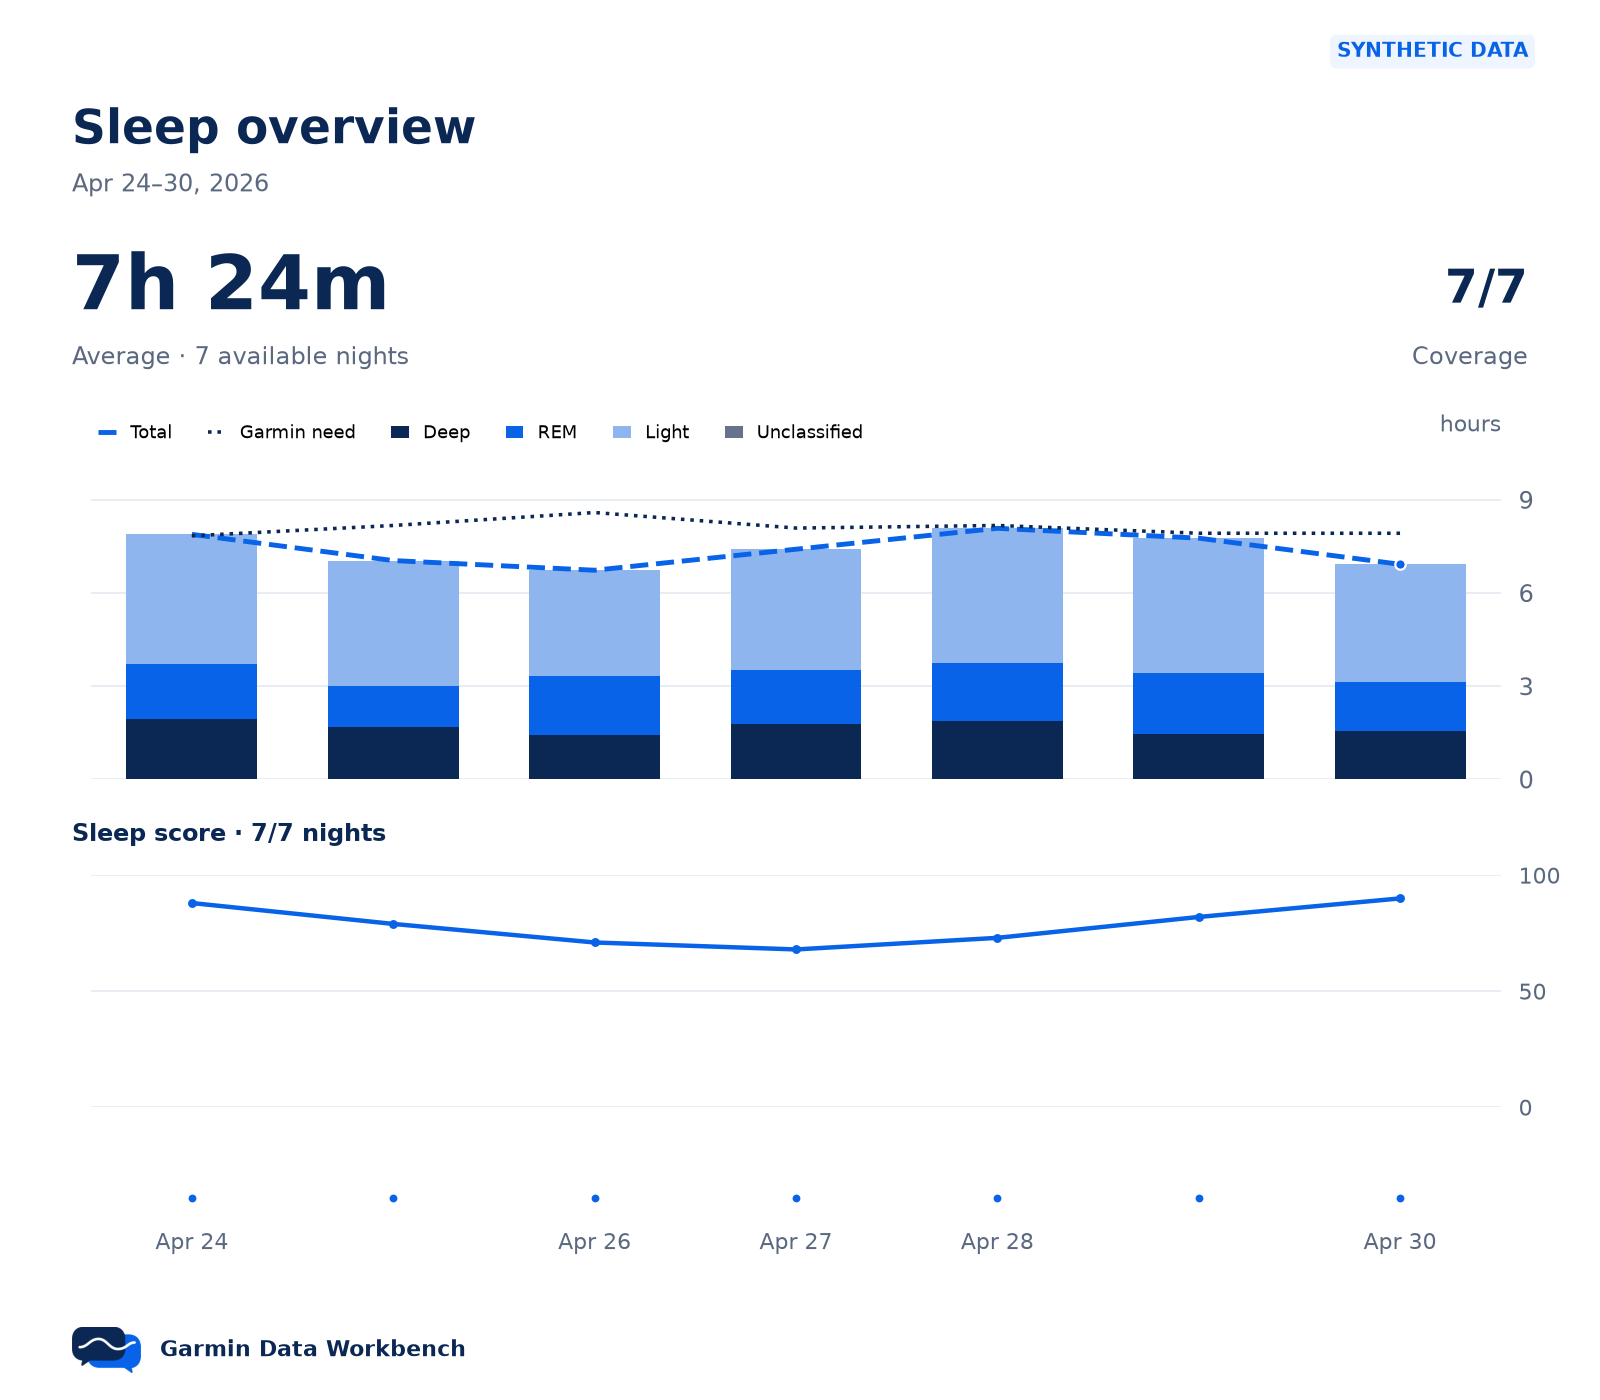
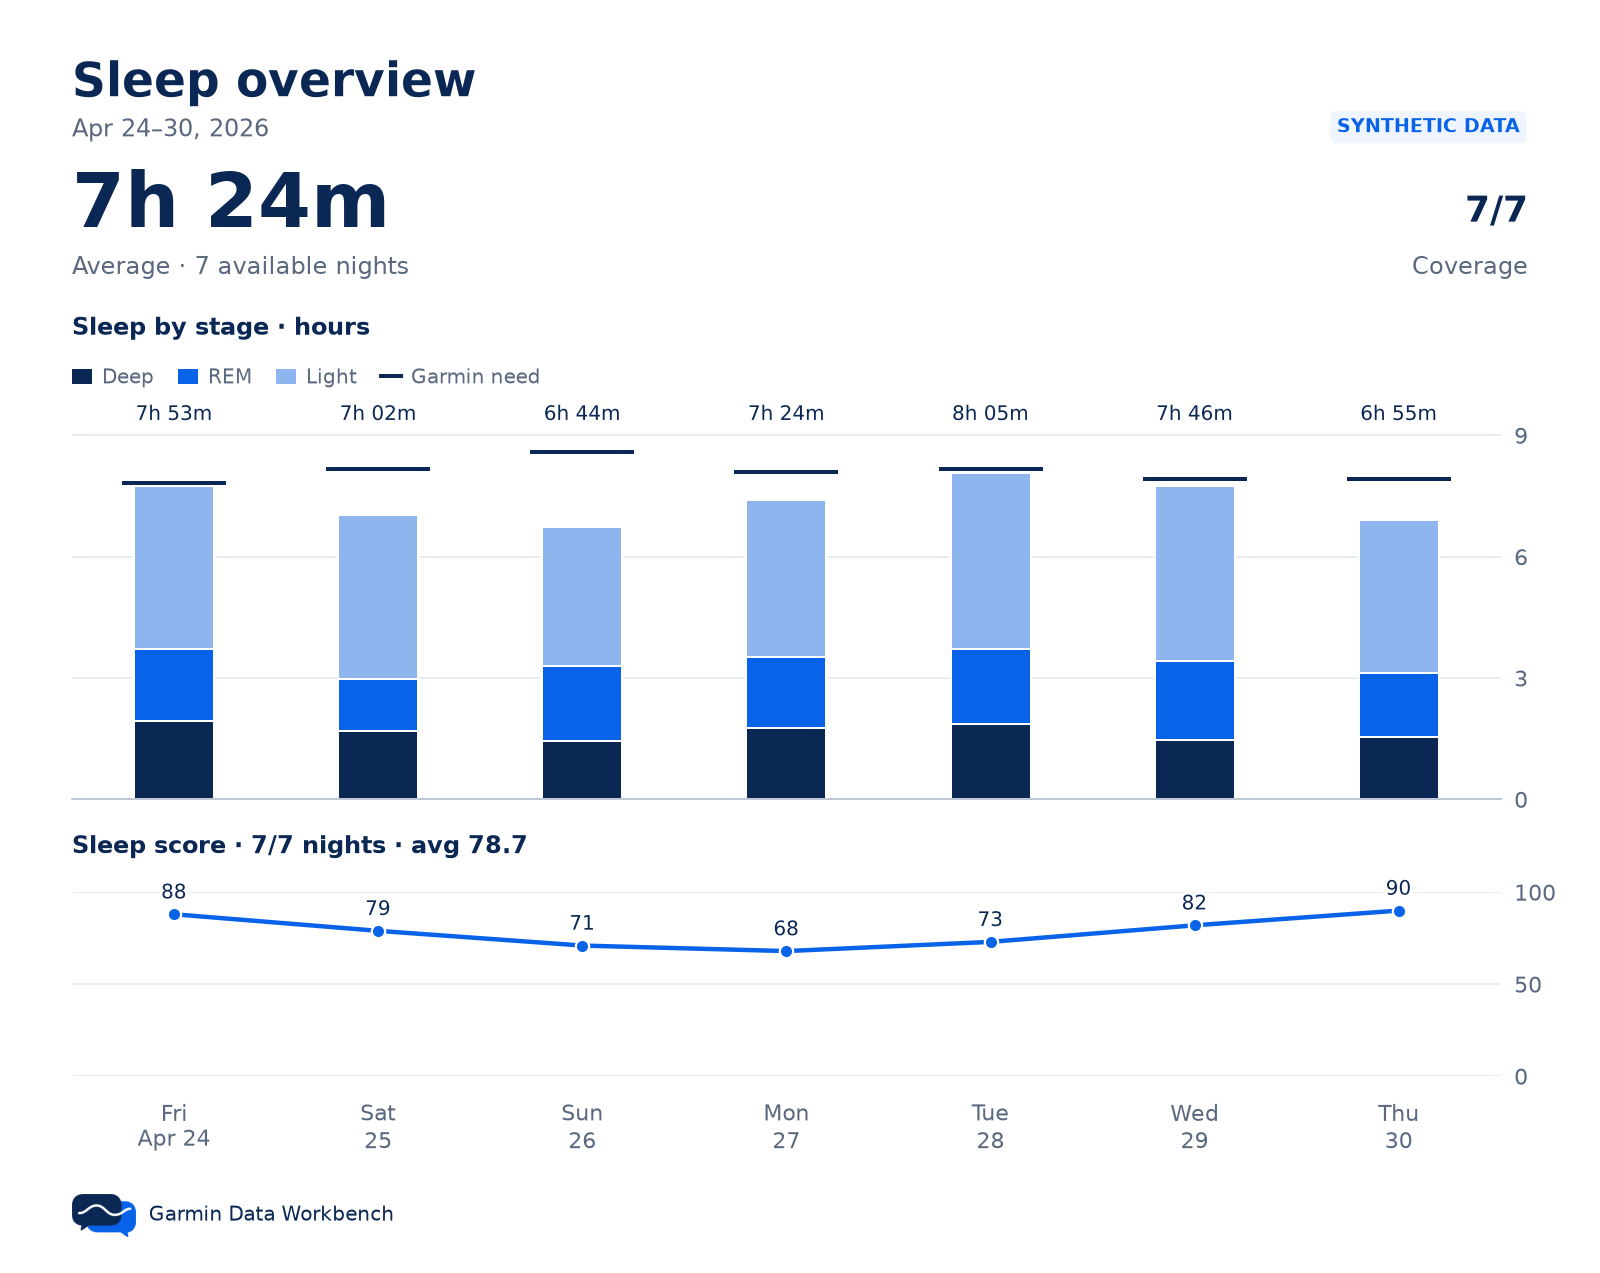
Integrate approved README wordmark and chart documentation

diff --git a/src/garmin_archive/cli.py b/src/garmin_archive/cli.py
@@ -111,6 +111,7 @@ Archive selection: put --data-dir DIRECTORY before the command.
 Read-only queries: day, trend, compare, workout-summary, sleep, body-battery, status, activities, health,
 records, source-data, source-series. They never sync or create an archive.
 Exports: chart, widget and export-original write new files and never overwrite.
+chart-kit writes a new directory without opening an archive.
 Live/configuration: sync uses credentials/network; install also connects clients
 and may schedule; connect registers clients; setup changes the macOS schedule;
 save-key authenticates and saves a key unless --dry-run is selected.

diff --git a/docs/TESTING.md b/docs/TESTING.md
@@ -52,6 +52,7 @@ Use `uv run python -m unittest discover -s tests -p '<file>' -v`:
 | Interactive sleep/recovery query parity, snapshots and MCP Apps resource transport | `test_recovery.py` |
 | Native widget snapshot parity, bounds, escaping and private CLI exports | `test_widgets.py` |
 | Grok TSX snapshot parity, source escaping, provenance, bounds and exclusive exports | `test_grok_widgets.py` |
+| Archive-free chart-kit discovery, private exports and packaged resources | `test_chart_kit.py` |
 | Bounded Grok native edit plans, atomic verification, exact reconstruction and private handoff artifacts | `test_grok_handoff.py`, `test_grok_handoff_cli.py` |
 | Units and time zones | `test_preferences.py` |
 | Entry points and POSIX/PowerShell command examples | `test_platforms.py` |
@@ -84,6 +85,7 @@ npm exec --prefix scripts/grok_harness -- playwright install chromium webkit
 uv run --locked python scripts/preview_grok_widget.py --output-dir /absolute/new/grok-fixtures
 node scripts/test_grok_widget.mjs --fixtures /absolute/new/grok-fixtures --output-dir /absolute/new/grok-checks
 node scripts/test_grok_transport.mjs --fixtures /absolute/new/grok-fixtures
+node scripts/test_chart_starters.mjs --output-dir /absolute/new/starter-checks
 ```
 
 It exercises linked pointer/drag, keyboard and emulated touch selection; tabs;
@@ -102,6 +104,11 @@ views. A Python test splits an actual Unicode JSON escape across an inert string
 declaration boundary and verifies the exact text survives joining and decoding.
 The shim proves neither native compilation nor mobile delivery. Follow the
 [native acceptance boundary](GROK_CHARTS.md#bounded-native-delivery) separately.
+
+The starter check type-checks the exact exported Grok TSX and exercises both
+Grok and Muse starters in Chromium and WebKit, including linked selection,
+gaps, labels, light/dark themes and narrow layouts. These are browser checks
+with a Grok stand-in, separate from actual assistant authoring and delivery.
 
 ## Dependency advisories
 

diff --git a/README.md b/README.md
@@ -1,11 +1,6 @@
-```text
-  G A R M I N   D A T A
+<img src="docs/assets/wordmark.svg" alt="Garmin Data" width="230">
 
-  __      _____  ___ _  _____ ___ _  _  ___ _  _
-  \ \    / / _ \| _ \ |/ / _ ) __| \| |/ __| || |
-   \ \/\/ / (_) |   / ' <| _ \ _|| .` | (__| __ |
-    \_/\_/ \___/|_|_\_|\_\___/___|_|\_|\___|_||_|
-```
+**WORKBENCH**
 
 # Garmin Data Workbench
 
@@ -92,6 +87,7 @@ See [assistant connections](docs/ASSISTANTS.md) for remote access and the checks
 - [Commands, SQL, exports and scheduling](docs/USAGE.md)
 - [Personal API source and field coverage](docs/API_COVERAGE.md)
 - [Assistant connections and handoffs](docs/ASSISTANTS.md)
+- [Experimental interactive charts on main](docs/VISUALIZATION.md#agent-delivery)
 - [Contribute](CONTRIBUTING.md) · [Agent instructions](AGENTS.md) · [Testing](docs/TESTING.md)
 - [Architecture](ARCHITECTURE.md) · [Security](SECURITY.md)
 
